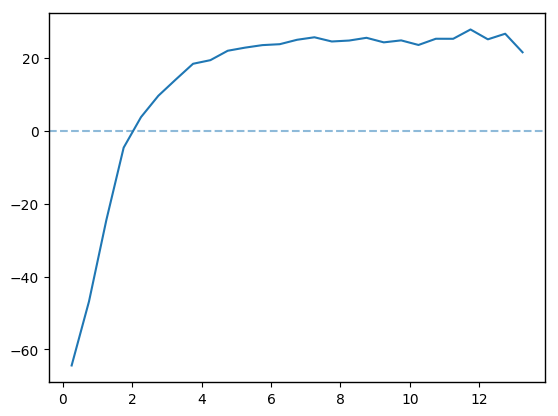
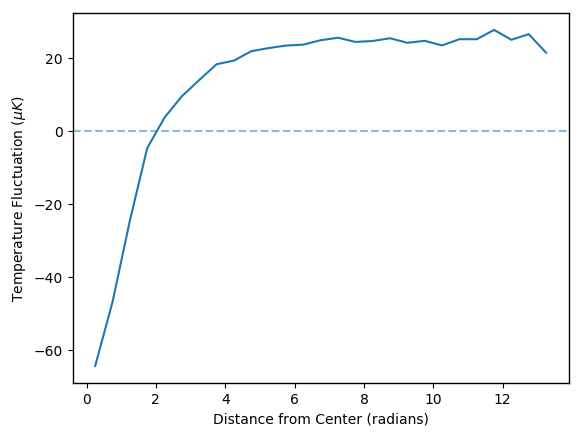
addes axis labels

Changed region(s): [[0.0, 0.0, 1.0, 1.0], [0.914, 0.0938, 0.9444, 0.125]]

diff --git a/stack.py b/stack.py
@@ -51,7 +51,7 @@ thetaRange = np.arange(0.,arcmax,dt)
 breal = bin2D(modRMap*180.*60./np.pi,thetaRange)
 cents,recons = breal.bin(stack)
 
-pl = Plotter()
+pl = Plotter(labelX='Distance from Center (radians)',labelY='Temperature Fluctuation ($\mu K$)', ftsize=10)
 pl.add(cents,recons)
 pl._ax.axhline(y=0.,ls="--",alpha=0.5)
 pl.done("profiles.png")
